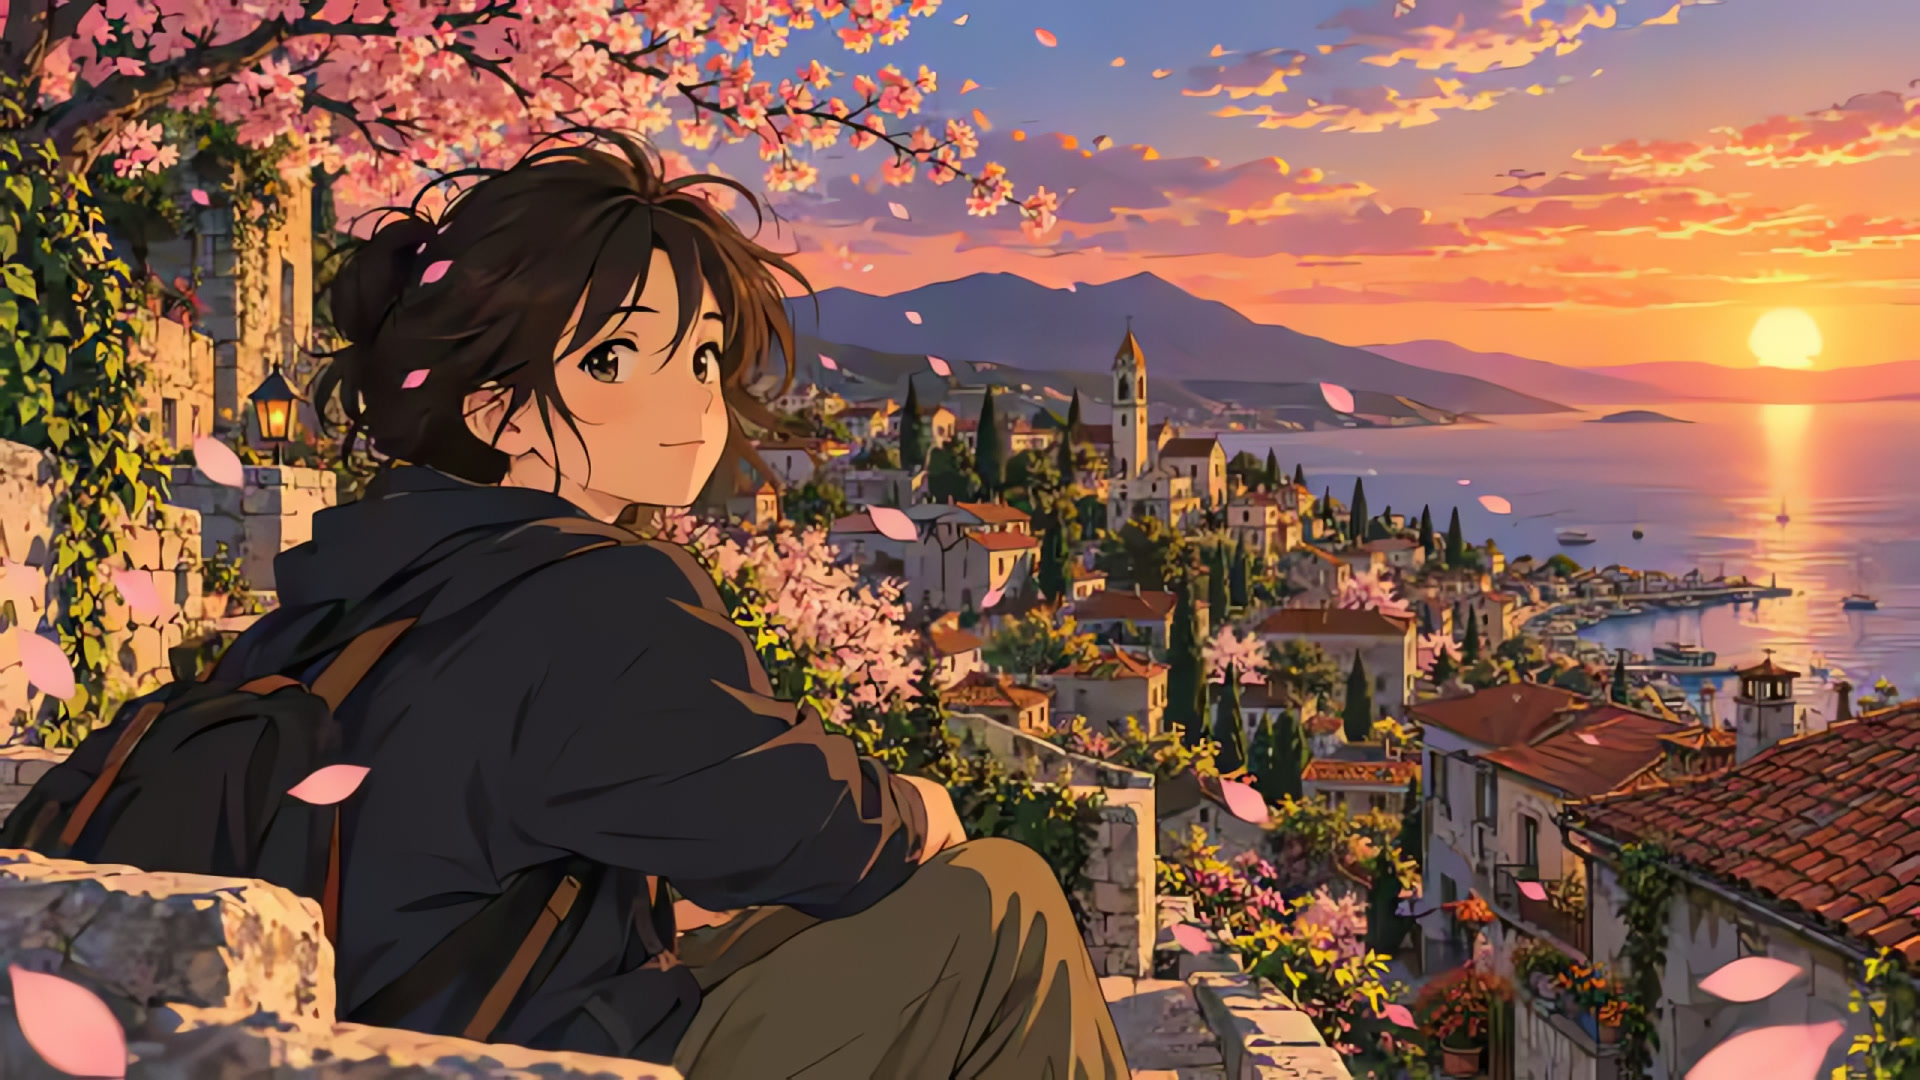
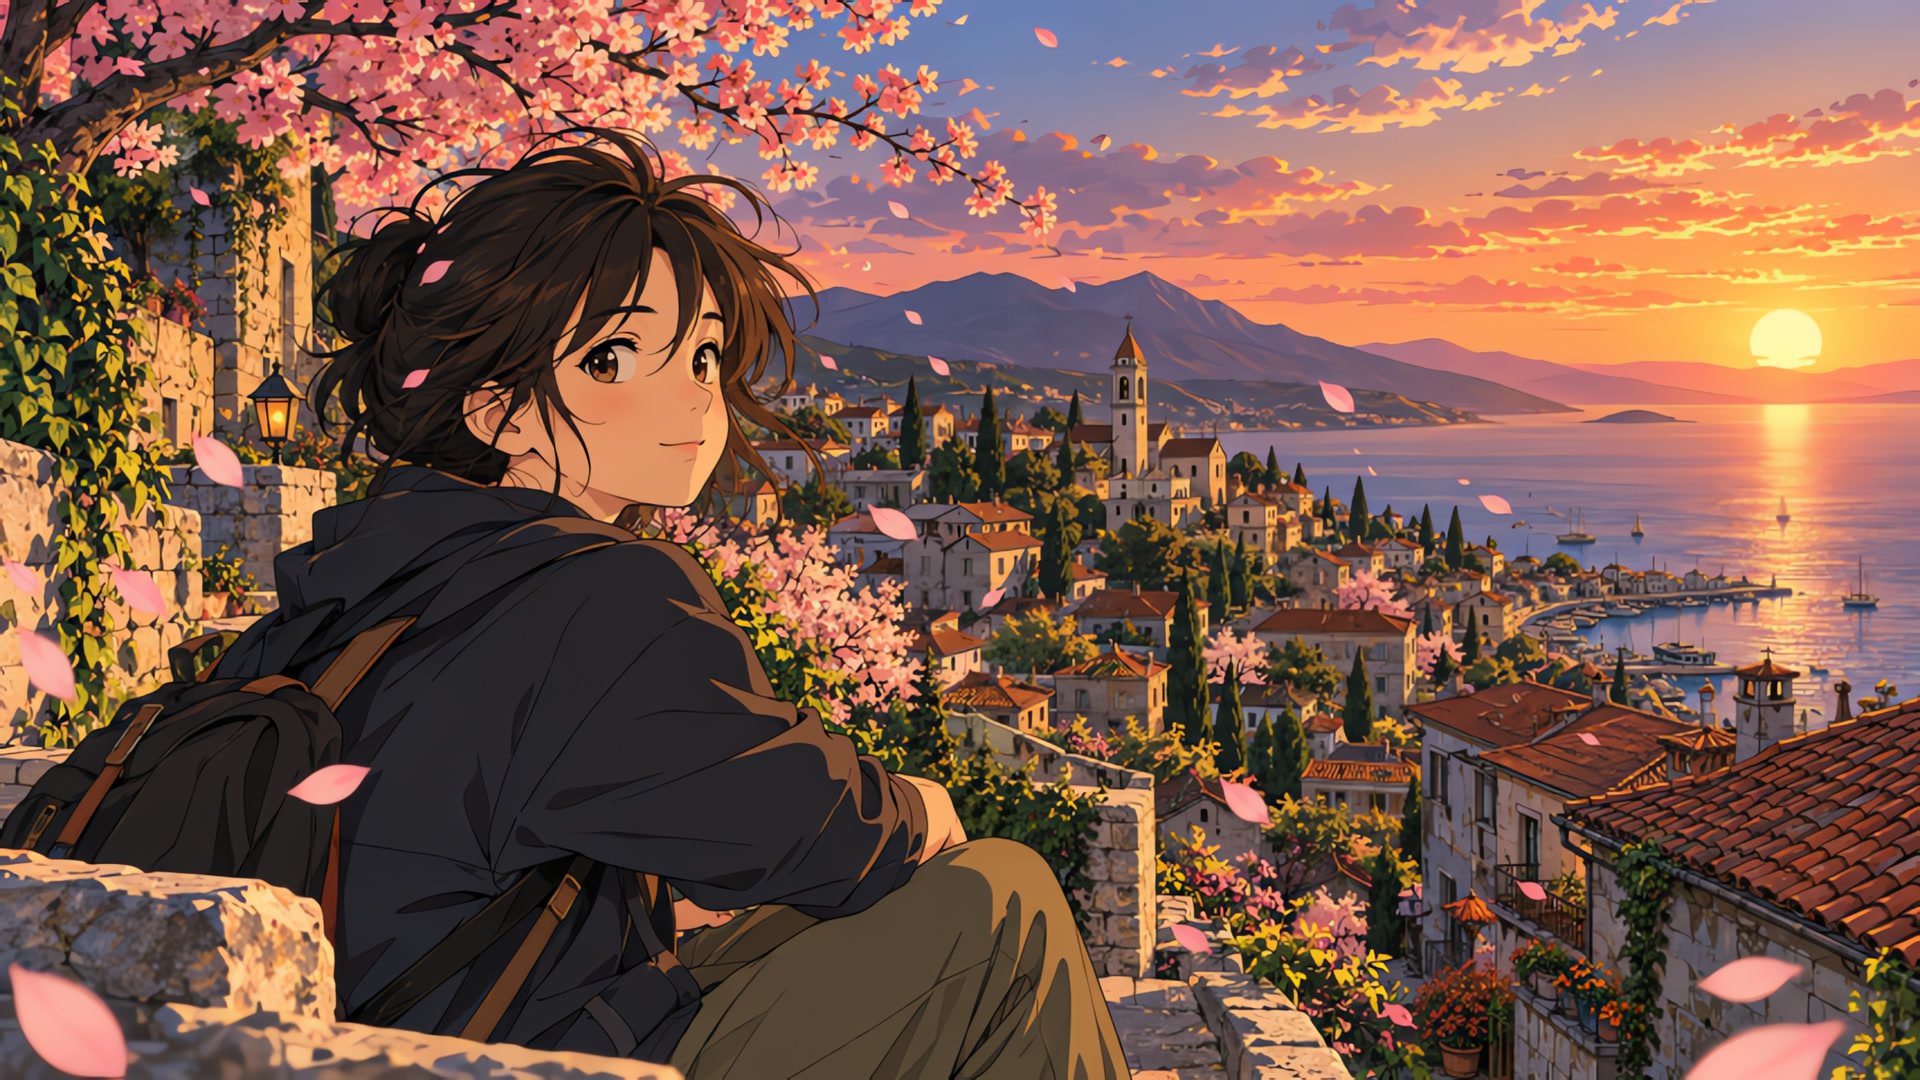
Cover from 480p, clearer divider knob, the README loop with the line only
The cover now starts from 480p, DVD resolution: from 360p the fine lines
were already gone before the model saw them. Its right half is still the
real output of Real-ESRGAN animevideov3. The knob's arrows are drawn and
centred; the README animation shows only the line, since it can't be
dragged there.

diff --git a/docs/javascripts/hero-compare.js b/docs/javascripts/hero-compare.js
@@ -76,8 +76,8 @@
     box.innerHTML =
       '<div class="au-full__scroll"><div class="au-full__pic au-hero" style="width:' + w + 'px;height:' + h + 'px">' +
       '<img src="' + after + '" alt=""><img class="au-hero__before" src="' + before + '" alt="">' +
-      '<span class="au-hero__line"><span class="au-hero__knob">‹›</span></span></div></div>' +
-      '<span class="au-full__tag au-full__tag--l">360p · the original</span><span class="au-full__tag au-full__tag--r">1080p · AnimeUp</span>' +
+      '<span class="au-hero__line"><span class="au-hero__knob"><svg width="20" height="14" viewBox="0 0 20 14" aria-hidden="true"><path d="M7 2 2 7l5 5M13 2l5 5-5 5" fill="none" stroke="currentColor" stroke-width="2.2" stroke-linecap="round" stroke-linejoin="round"/></svg></span></span></div></div>' +
+      '<span class="au-full__tag au-full__tag--l">480p · the original</span><span class="au-full__tag au-full__tag--r">1080p · AnimeUp</span>' +
       '<button class="au-full__close" type="button" aria-label="Close">×</button>';
     document.body.appendChild(box);
     document.documentElement.style.overflow = "hidden";

diff --git a/docs/stylesheets/extra.css b/docs/stylesheets/extra.css
@@ -1748,9 +1748,9 @@
   position: absolute;
   top: 50%;
   left: 50%;
-  width: 36px;
-  height: 36px;
-  margin: -18px 0 0 -18px;
+  width: 42px;
+  height: 42px;
+  margin: -21px 0 0 -21px;
   border-radius: 50%;
   background: #fff;
   color: #0d1015;

diff --git a/docs/guide/index.md b/docs/guide/index.md
@@ -15,14 +15,14 @@ description: How to use AnimeUp 2.0, the native Mac app that upscales anime on y
   </div>
 </header>
 
-<div class="au-hero" tabindex="0" role="img" aria-label="Before and after: the same picture at 360p, plainly enlarged on the left and upscaled to 1080p by AnimeUp on the right. Drag to compare.">
+<div class="au-hero" tabindex="0" role="img" aria-label="Before and after: the same picture at 480p, plainly enlarged on the left and upscaled to 1080p by AnimeUp on the right. Drag to compare.">
   <img class="au-hero__pic" src="img/v2/hero-after.jpg" alt="">
   <span class="au-hero__clip"><img class="au-hero__pic" src="img/v2/hero-before.jpg" alt=""></span>
-  <span class="au-hero__line"><span class="au-hero__knob">‹›</span></span>
+  <span class="au-hero__line"><span class="au-hero__knob"><svg width="20" height="14" viewBox="0 0 20 14" aria-hidden="true"><path d="M7 2 2 7l5 5M13 2l5 5-5 5" fill="none" stroke="currentColor" stroke-width="2.2" stroke-linecap="round" stroke-linejoin="round"/></svg></span></span>
   <img src="img/v2/hero-overlay.png" alt="">
   <button class="au-hero__zoom" type="button" title="Compare at 100%, one picture pixel per screen pixel">1:1</button>
 </div>
-<p class="au-hero__caption">Drag across the picture: a close-up of the same frame at 360p, plainly enlarged on the left, and upscaled by AnimeUp with Real-ESRGAN animevideov3 on the right. <b>1:1</b> shows the whole frame at full size.</p>
+<p class="au-hero__caption">Drag across the picture: a close-up of the same frame at 480p (DVD resolution), plainly enlarged on the left, and upscaled by AnimeUp with Real-ESRGAN animevideov3 on the right. <b>1:1</b> shows the whole frame at full size.</p>
 
 ## What AnimeUp is
 
@@ -132,7 +132,7 @@ Four steps, and only the first two are needed.
 
 ---
 
-<small>The cover picture was made for this guide, then shrunk to 360p and upscaled by AnimeUp. Other pictures show footage from
+<small>The cover picture was made for this guide, then shrunk to 480p and upscaled by AnimeUp. Other pictures show footage from
 [Morevna Episode 3](https://archive.org/details/morevna-ep3) (© Morevna
 Project, [CC BY-SA 3.0](https://creativecommons.org/licenses/by-sa/3.0/))
 and [Big Buck Bunny](https://peach.blender.org) (© 2008 Blender Foundation,

diff --git a/README.md b/README.md
@@ -13,8 +13,8 @@ AnimeUp batch-upscales anime episodes to 1080p and beyond with
 Mac app: it analyses your sources, lets you compare models side by side on
 difficult clips, and runs long, resumable jobs, all on your Mac and offline.
 
-![The same picture at 360p, plainly enlarged on the left and upscaled to 1080p by AnimeUp on the right, with the divider sweeping across](docs/images/cover.webp)
-<sub>The same picture at 360p: plainly enlarged on the left, upscaled to 1080p by
+![The same picture at 480p, plainly enlarged on the left and upscaled to 1080p by AnimeUp on the right, with the divider sweeping across](docs/images/cover.webp)
+<sub>A close-up of the same picture at 480p, DVD resolution: plainly enlarged on the left, upscaled to 1080p by
 AnimeUp with Real-ESRGAN animevideov3 on the right. In the
 [user guide](https://interstellar0verdrive.github.io/AnimeUp/guide/) you can drag
 the divider yourself, and see it at 1:1.</sub>
